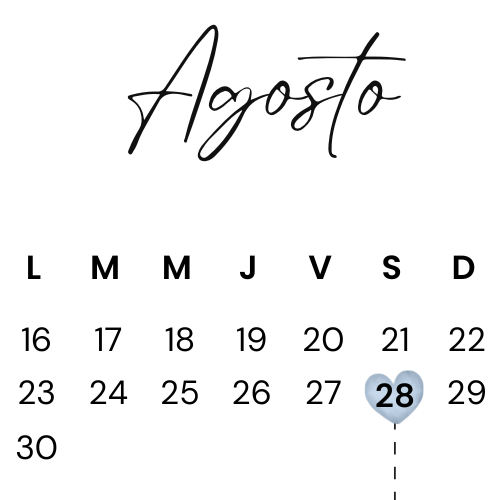
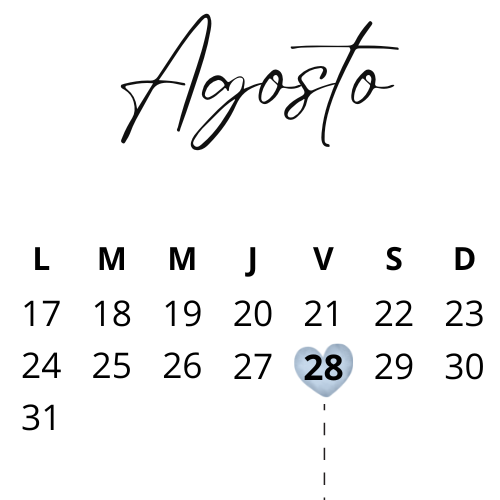
seis

diff --git a/index.html b/index.html
@@ -116,7 +116,7 @@
   <p class="parrafo4">Fiesta</p>
   <img class="anillo" src="./imagenes/bola.gif" alt="">
    <br><br>
-      <p class="parrafo5"> <b>Día:</b> 28 de Agosto del 2026 <br>21:00 Hs <br><b>Salón: </b>Solar del Sur 4 <br> de Enero 899 Santa Fe.
+      <p class="parrafo5"> <b>Día:</b> Viernes 28 de Agosto del 2026 <br>21:00 Hs <br><b>Salón: </b>Solar del Sur 4 <br> de Enero 899 Santa Fe.
    </p>
 
 <div class="boton1">
